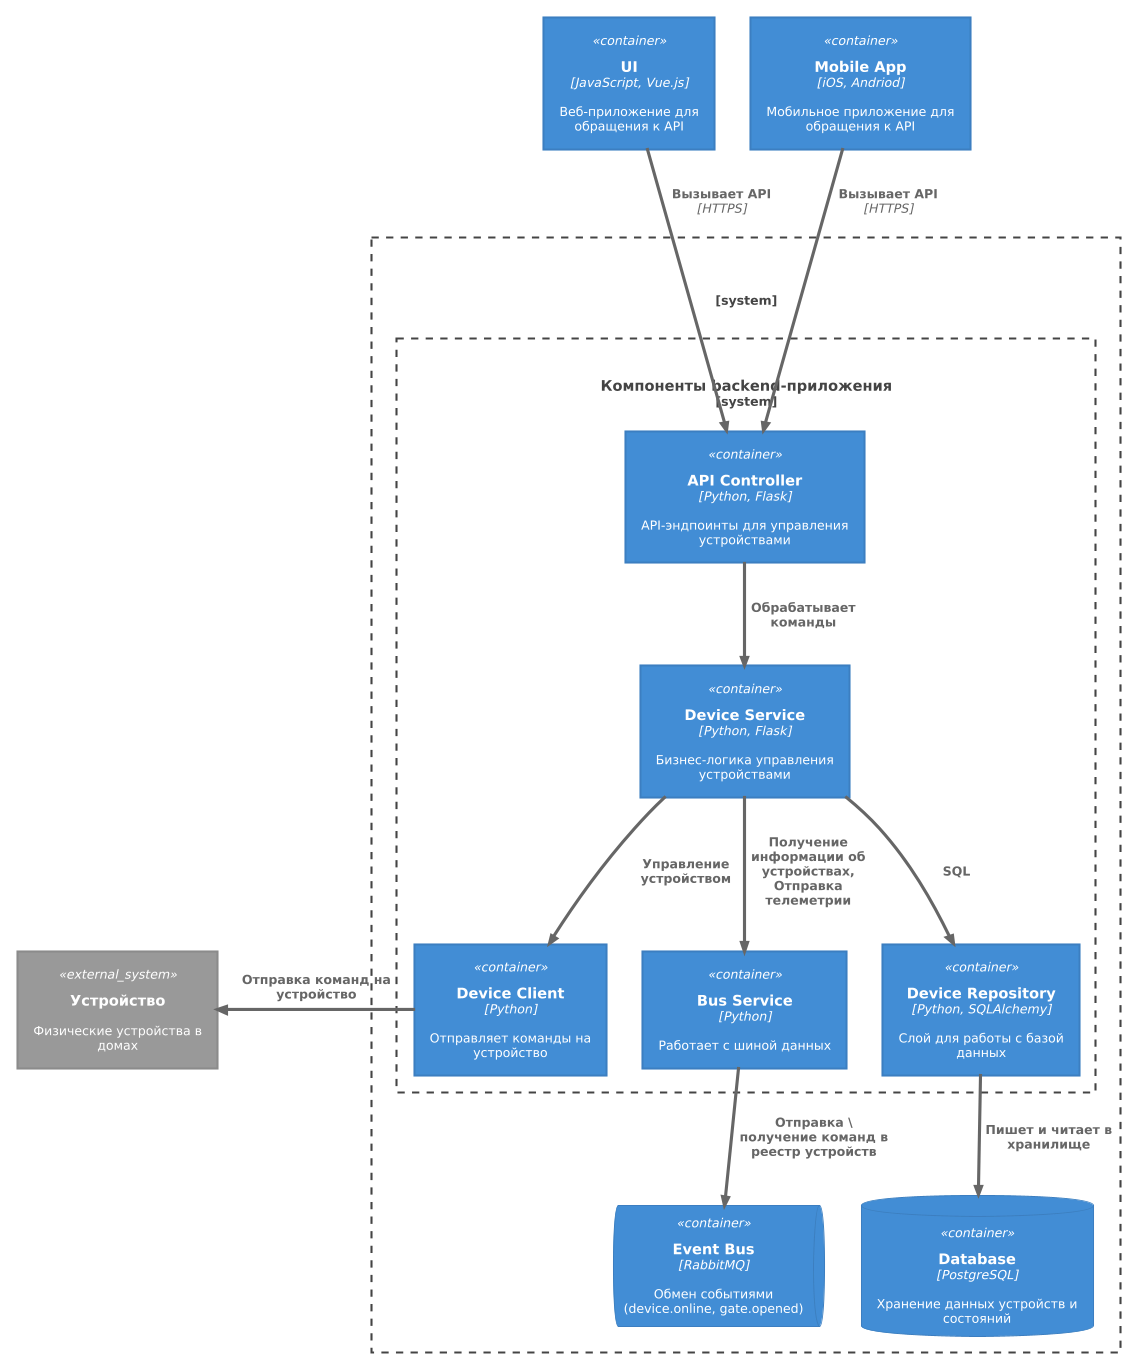
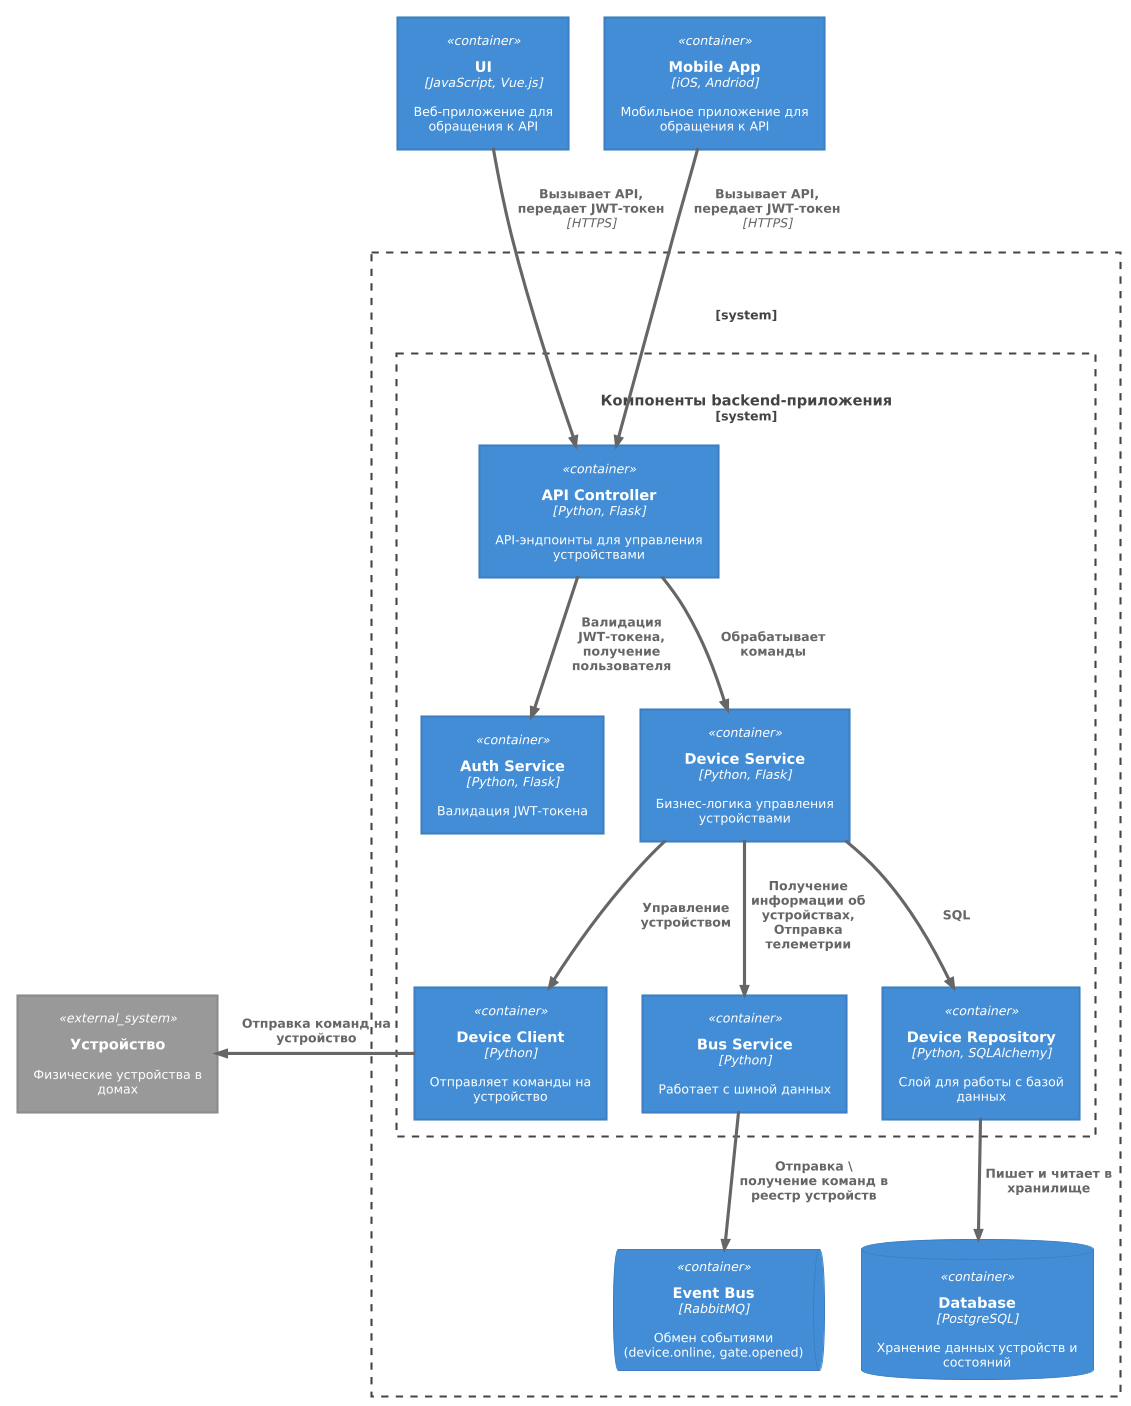
Спринт 1: добавление авторизации и телеметрии

diff --git a/README.md b/README.md
@@ -48,6 +48,7 @@
 **Диаграмма компонентов (Components)**
 
 [Реестр оборуования](diagrams/out/component/registry.png)
+[Телеметрия](diagrams/out/component/telemetry.png)
 [Управление устройством](diagrams/out/component/device.png)
 
 **Диаграмма кода (Code)**
